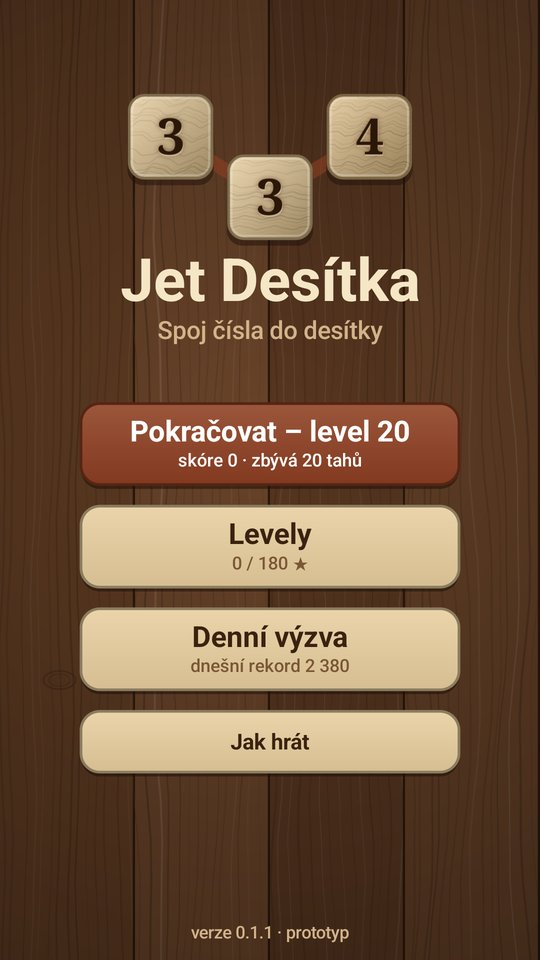
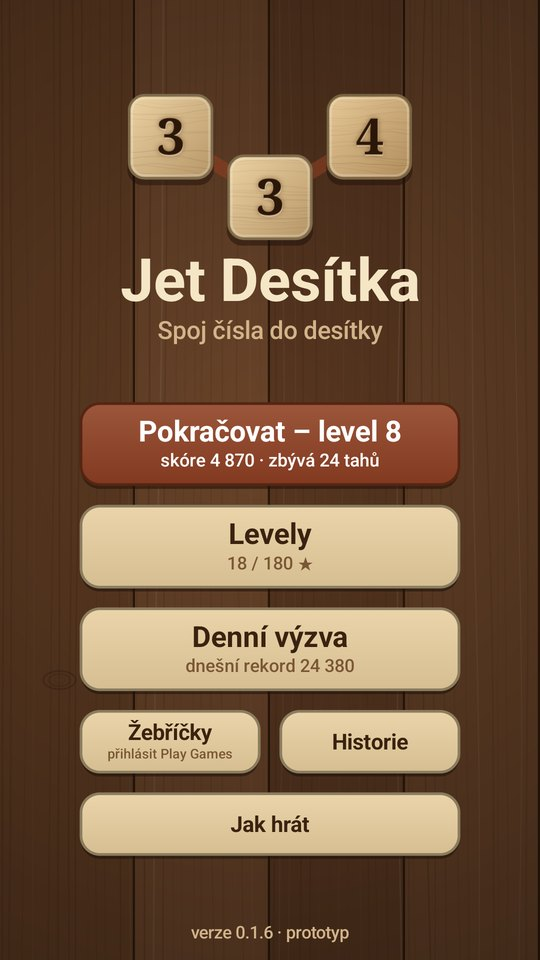
Jet Desítka: nová pravidla (postupky, dvojice, věž, mezery), historie, nové screenshoty; zásady jen žebříčky

diff --git a/jetdesitka/index.html b/jetdesitka/index.html
@@ -4,7 +4,7 @@
   <meta charset="utf-8">
   <meta name="viewport" content="width=device-width, initial-scale=1">
   <title>Jet Desítka – Rdanhel Dev</title>
-  <meta name="description" content="Jet Desítka: klidná číselná hra s dřevěnými kostkami. Spojuj čísla do desítky nebo tři a víc stejných, sbírej kaskády a hvězdy v 60 levelech a porovnej se s ostatními v denní výzvě. Android, bez reklam.">
+  <meta name="description" content="Jet Desítka: klidná číselná hra s dřevěnými kostkami. Spojuj čísla do desítky, tři a víc stejných nebo postupku, plánuj dopředu ve věži čísel, sbírej hvězdy v 60 levelech a porovnej se s ostatními v denní výzvě. Android, bez reklam.">
   <link rel="icon" href="../assets/img/favicon.svg" type="image/svg+xml">
   <link rel="stylesheet" href="../assets/css/style.css">
 </head>
@@ -55,7 +55,7 @@
       <img src="../assets/img/jetdesitka/ikona.png" width="112" height="112" alt="Ikona Jet Desítka" style="border-radius:24px;margin-bottom:18px">
       <span class="eyebrow">Projekt</span>
       <h1>Jet Desítka</h1>
-      <p class="lead">Klidná číselná hra s dřevěnými kostkami a vypálenými čísly. Prstem spojuješ sousední čísla jako v osmisměrce, buď do součtu 10, nebo tři a víc stejných. Žádný časovač ani spěch, jen přemýšlení. Čím delší cesta, tím víc bodů, a když se po pádu sejdou stejná čísla, rozjede se kaskáda.</p>
+      <p class="lead">Klidná číselná hra s dřevěnými kostkami a vypálenými čísly. Prstem spojuješ sousední čísla jako v osmisměrce: do součtu 10, tři a víc stejných, nebo postupku 1-2-3. Všechna čísla čekají předem ve věži, takže si můžeš dopředu naplánovat, co spadne. Žádný časovač ani spěch, jen přemýšlení.</p>
       <div class="badges">
         <span class="badge">Android</span>
         <span class="badge">Čeština</span>
@@ -80,12 +80,24 @@
           <p>Táhni prstem přes sousední čísla do všech osmi směrů, i šikmo. Když dají dohromady přesně 10, zmizí. Za dvojici je 20 bodů, za čtyři čísla 160 a za šest čísel 960. Delší cesta se vyplatí.</p>
         </div>
         <div class="card">
-          <h3>Stejná čísla</h3>
-          <p>Tři a víc stejných čísel vedle sebe smíš spojit bez ohledu na součet. Čím víc jich je, tím větší bonus: 3 stejná dají 90 bodů, 4 stejná 240, 5 stejných 600 a 6 stejných 1 440.</p>
+          <h3>Stejná čísla a dvojice</h3>
+          <p>Tři a víc stejných čísel smíš spojit bez ohledu na součet. Kterékoli z nich můžeš nahradit dvěma čísly za sebou se stejným součtem: 7, 7, 2+5, 7 jsou čtyři sedmičky. 3 kusy dají 90 bodů, 4 kusy 240, 5 kusů 600, 6 kusů 1 440.</p>
+        </div>
+        <div class="card">
+          <h3>Postupka</h3>
+          <p>Aspoň tři čísla za sebou, každé o jedna vyšší nebo nižší: 1-2-3-4 nebo 6-5-4. Boduje se stejně jako stejná čísla, celá řada 1 až 9 dá přes 17 000 bodů.</p>
+        </div>
+        <div class="card">
+          <h3>Věž čísel</h3>
+          <p>Všechna čísla hry jsou připravená předem ve věži a nová nepřibývají. Lištou vpravo se posuneš nahoru, uvidíš, co tě čeká, a hrát můžeš kdekoliv, třeba si nahoře připravit kombinaci, která pak spadne dolů.</p>
+        </div>
+        <div class="card">
+          <h3>Mezera jako žolík</h3>
+          <p>Jak věž ubývá, nahoře vznikají prázdná místa. Cesta přes ně může projít, klidně přes celé prázdné sloupce: 2 úplně vlevo a 8 úplně vpravo je pořád desítka. Mezera sama nic nepřičítá.</p>
         </div>
         <div class="card">
           <h3>Kaskády</h3>
-          <p>Zbylá čísla spadnou dolů a shora přijdou nová. Když se pádem sejdou aspoň tři stejná vedle sebe, zmizí sama s násobitelem ×2, ×3, ×4… Jeden dobrý tah tak může přinést tisíce bodů.</p>
+          <p>Zbylá čísla spadnou dolů. Když se pádem sejdou aspoň tři stejná vedle sebe, zmizí sama s násobitelem ×2, ×3, ×4… Jeden dobrý tah tak může přinést tisíce bodů.</p>
         </div>
         <div class="card">
           <h3>Zámky a ×2</h3>
@@ -93,7 +105,7 @@
         </div>
         <div class="card">
           <h3>Bez spěchu</h3>
-          <p>Nehraje se na čas, ale na tahy. Hra se uloží po každém tahu, takže ji můžeš kdykoli zavřít a příště pokračovat od posledního tahu. Když nevíš kudy kam, nápověda ukáže jednu dobrou cestu.</p>
+          <p>Nehraje se na čas, ale na tahy. Hra se uloží po každém tahu, takže ji můžeš kdykoli zavřít a příště pokračovat. V historii najdeš všechny dohrané hry a jejich skóre.</p>
         </div>
         <div class="card">
           <h3>Dřevěný vzhled</h3>
@@ -104,22 +116,23 @@
 
     <section id="rezimy">
       <h2>Levely a denní výzva</h2>
-      <p class="section-lead">Postupně těžší levely pro sebe a jedna společná deska denně pro porovnání s ostatními.</p>
+      <p class="section-lead">Postupně těžší levely pro sebe a jedna společná věž denně pro porovnání s ostatními.</p>
       <div class="split">
         <div>
           <ul class="check">
             <li><b>60 levelů</b>: omezený počet tahů, cílové skóre a od čtvrtého levelu zámky. Za vyšší skóre jsou až tři hvězdy a splněný level odemkne další.</li>
-            <li><b>Denní výzva</b>: každý den nová deska, pro všechny hráče stejná, 30 tahů. Počítá se jen skóre, takže porovnání je férové.</li>
+            <li><b>Denní výzva</b>: každý den nová věž, pro všechny hráče stejná, 60 tahů. Počítá se jen skóre a všichni mají stejná čísla, takže porovnání je férové.</li>
+            <li><b>Historie</b>: přehled dohraných her s datem, skóre a hvězdami.</li>
             <li><b>Nápověda</b>: třikrát za hru ukáže jednu dobrou cestu.</li>
           </ul>
         </div>
         <div class="card">
           <h3>Hra v číslech</h3>
           <ul>
-            <li>Mřížka <b>7 × 9 kostek</b></li>
+            <li>Věž <b>7 sloupců, 27–34 řad</b></li>
             <li>Levely <b>60, až 3 hvězdy</b></li>
-            <li>Tahů v levelu <b>15–20</b></li>
-            <li>Denní výzva <b>30 tahů</b></li>
+            <li>Tahů v levelu <b>30–40</b></li>
+            <li>Denní výzva <b>60 tahů, věž 48 řad</b></li>
             <li>Kaskády <b>×2, ×3, ×4…</b></li>
             <li>Reklamy a nákupy <b>žádné</b></li>
           </ul>
@@ -129,36 +142,33 @@
 
     <section id="play-games">
       <h2>Google Play Games</h2>
-      <p class="section-lead">Aby bylo s kým se porovnávat, napojí se hra na herní služby Googlu. Přihlásíš se svým profilem Play Games, žádný další účet ani registrace nejsou potřeba.</p>
-      <div class="grid cols-3">
+      <p class="section-lead">Aby bylo s kým se porovnávat, je hra napojená na herní služby Googlu. Přihlásíš se svým profilem Play Games, žádný další účet ani registrace nejsou potřeba.</p>
+      <div class="grid cols-2">
         <div class="card">
-          <span class="tag">Připravuje se</span>
-          <h3>Žebříčky</h3>
-          <p>Denní žebříček pro denní výzvu a celkový žebříček za levely. Uvidíš, jak si vedeš proti přátelům i ostatním hráčům.</p>
+          <span class="tag">Hotovo</span>
+          <h3>Čtyři žebříčky</h3>
+          <p>Denní výzva, hvězdy celkem, nejlepší tah a součet skóre levelů. Uvidíš, jak si vedeš proti přátelům i ostatním hráčům.</p>
         </div>
         <div class="card">
-          <span class="tag">Připravuje se</span>
-          <h3>Uložení v cloudu</h3>
-          <p>Postup v levelech a rozehraná hra se uloží do tvého účtu Google. Na novém telefonu pak můžeš pokračovat v rozehrané hře.</p>
-        </div>
-        <div class="card">
-          <span class="tag">Připravuje se</span>
-          <h3>Úspěchy</h3>
-          <p>Odměny za první kaskádu ×3, šest stejných čísel v jedné cestě, týden denních výzev v řadě a další.</p>
+          <span class="tag">Možná později</span>
+          <h3>Úspěchy a uložení v cloudu</h3>
+          <p>Odměny za velké kaskády nebo dlouhé postupky a pokračování v rozehrané hře na jiném telefonu. Zatím se postup ukládá jen v telefonu.</p>
         </div>
       </div>
       <div class="note" style="margin-top:18px">
-        Přihlášení do Play Games bude dobrovolné. Hra půjde hrát i bez něj, jen bez žebříčků a cloudového uložení. Profil, žebříčky i uložené hry spravuje Google. <a href="../zasady-ochrany-osobnich-udaju/jet-desitka/">Podrobnosti v zásadách ochrany osobních údajů</a>.
+        Přihlášení do Play Games je dobrovolné. Hra jde hrát i bez něj, jen bez žebříčků. Profil a žebříčky spravuje Google. <a href="../zasady-ochrany-osobnich-udaju/jet-desitka/">Podrobnosti v zásadách ochrany osobních údajů</a>.
       </div>
     </section>
 
     <section id="screenshoty">
       <h2>Screenshoty</h2>
       <div class="shots">
-        <figure><img src="../assets/img/jetdesitka/uvod.jpg" width="540" height="960" loading="lazy" alt="Úvodní obrazovka s dřevěnými kostkami"><figcaption>Úvodní obrazovka</figcaption></figure>
-        <figure><img src="../assets/img/jetdesitka/hra.jpg" width="540" height="960" loading="lazy" alt="Hrací deska s dřevěnými kostkami, zámky a kostkou ×2"><figcaption>Hrací deska se zámky</figcaption></figure>
-        <figure><img src="../assets/img/jetdesitka/stejna-cisla.jpg" width="540" height="960" loading="lazy" alt="Tažení cesty přes tři sedmičky za 90 bodů"><figcaption>Tři stejná čísla</figcaption></figure>
-        <figure><img src="../assets/img/jetdesitka/levely.jpg" width="540" height="960" loading="lazy" alt="Výběr levelu s hvězdami"><figcaption>Výběr levelu</figcaption></figure>
+        <figure><img src="../assets/img/jetdesitka/uvod.jpg" width="540" height="960" loading="lazy" alt="Úvodní obrazovka s dřevěnými kostkami a tlačítkem Historie"><figcaption>Úvodní obrazovka</figcaption></figure>
+        <figure><img src="../assets/img/jetdesitka/vez.jpg" width="540" height="960" loading="lazy" alt="Věž čísel, cesta 2 + 3 + 1 + 4 = 10 za 160 bodů"><figcaption>Desítka ve věži</figcaption></figure>
+        <figure><img src="../assets/img/jetdesitka/dvojice.jpg" width="540" height="960" loading="lazy" alt="Cesta 7, 7, 2+5, 7 – čtyři sedmičky za 240 bodů"><figcaption>Sedmičky i s dvojicí</figcaption></figure>
+        <figure><img src="../assets/img/jetdesitka/mezera.jpg" width="540" height="960" loading="lazy" alt="Skoro vyčerpaná věž, postupka 4-5-6-7 vede přes dvě prázdná místa"><figcaption>Postupka přes mezery</figcaption></figure>
+        <figure><img src="../assets/img/jetdesitka/historie.jpg" width="540" height="960" loading="lazy" alt="Historie dohraných her se skóre a hvězdami"><figcaption>Historie her</figcaption></figure>
+        <figure><img src="../assets/img/jetdesitka/vysledek.jpg" width="540" height="960" loading="lazy" alt="Splněný level se třemi hvězdami"><figcaption>Splněný level</figcaption></figure>
       </div>
     </section>
 

diff --git a/zasady-ochrany-osobnich-udaju/jet-desitka/index.html b/zasady-ochrany-osobnich-udaju/jet-desitka/index.html
@@ -4,7 +4,7 @@
   <meta charset="utf-8">
   <meta name="viewport" content="width=device-width, initial-scale=1">
   <title>Zásady ochrany osobních údajů – Jet Desítka</title>
-  <meta name="description" content="Zásady ochrany osobních údajů aplikace Jet Desítka. Bez reklam, analytiky a vlastního serveru. Žebříčky, úspěchy a uložení v cloudu přes Google Play Games Services, které spravuje Google.">
+  <meta name="description" content="Zásady ochrany osobních údajů aplikace Jet Desítka. Bez reklam, analytiky a vlastního serveru. Žebříčky přes Google Play Games Services, které spravuje Google.">
   <link rel="icon" href="../../assets/img/favicon.svg" type="image/svg+xml">
   <link rel="stylesheet" href="../../assets/css/style.css">
 </head>
@@ -65,7 +65,7 @@
 
       <h3>Shrnutí</h3>
       <p>Vývojář <strong>neprovozuje žádný server a neshromažďuje o vás žádné osobní údaje</strong>. Aplikace neobsahuje reklamy, nákupy v aplikaci ani analytické nástroje a nemá vlastní uživatelské účty. Postup ve hře se ukládá ve vašem zařízení.</p>
-      <p>Pro žebříčky, úspěchy a uložení hry v cloudu aplikace využívá službu <strong>Google Play Games Services</strong> (herní služby Google Play). Přihlášení do ní je dobrovolné a data v ní zpracovává společnost Google podle svých zásad (viz níže).</p>
+      <p>Pro žebříčky aplikace využívá službu <strong>Google Play Games Services</strong> (herní služby Google Play). Přihlášení do ní je dobrovolné a data v ní zpracovává společnost Google podle svých zásad (viz níže).</p>
       <p>Tyto zásady se týkají mobilní hry Jet Desítka pro Android.</p>
 
       <h3>Jaká data aplikace ukládá (lokálně ve vašem zařízení)</h3>
@@ -73,6 +73,7 @@
         <li><strong>Postup v levelech</strong>: odemčené levely a získané hvězdy.</li>
         <li><strong>Rekordy denních výzev</strong>: nejvyšší skóre pro jednotlivé dny.</li>
         <li><strong>Rozehraná hra</strong>: stav desky, skóre a zbývající tahy, abyste mohli pokračovat.</li>
+        <li><strong>Historie her</strong>: datum a čas dohraných her, level nebo denní výzva, skóre a hvězdy (posledních 200 her).</li>
       </ul>
       <p>Data jsou v interním úložišti aplikace, kam ostatní aplikace nemají přístup, a neobsahují žádné údaje o vás ani o vašem zařízení.</p>
 
@@ -80,13 +81,11 @@
       <p>Pokud se v aplikaci přihlásíte ke službě Google Play Games (může proběhnout i automaticky, máte-li v telefonu Play Games zapnuté), zpracovává společnost Google tyto údaje:</p>
       <ul>
         <li><strong>Herní profil</strong>: vaše herní ID, přezdívka (jméno hráče) a profilový obrázek ze služby Play Games.</li>
-        <li><strong>Žebříčky</strong>: vaše skóre (denní výzva, celkové skóre za levely) spolu s herním profilem. Podle nastavení viditelnosti ve vašem profilu Play Games je mohou vidět i ostatní hráči.</li>
-        <li><strong>Úspěchy</strong>: které herní úspěchy jste získali.</li>
-        <li><strong>Uložené hry v cloudu</strong>: postup v levelech a rozehraná hra uložené ve vašem účtu Google, abyste mohli pokračovat na jiném zařízení.</li>
+        <li><strong>Žebříčky</strong>: vaše skóre ve čtyřech žebříčcích (denní výzva, hvězdy celkem, nejlepší tah, součet skóre levelů) spolu s herním profilem. Podle nastavení viditelnosti ve vašem profilu Play Games je mohou vidět i ostatní hráči.</li>
       </ul>
+      <p>Úspěchy (achievementy) ani ukládání her v cloudu aplikace nepoužívá. Pokud by je v budoucnu přidala, tyto zásady se předem upraví.</p>
       <p>Tyto údaje spravuje Google jako samostatný správce podle <a href="https://policies.google.com/privacy">Zásad ochrany soukromí Google</a> a <a href="https://play.google.com/about/play-terms/">Smluvních podmínek služby Google Play</a>. Vývojář nemá přístup k vašemu e-mailu, kontaktům ani jiným údajům z účtu Google. Prostřednictvím služby vidí jen to, co je v žebříčcích (přezdívku a skóre), a souhrnné statistiky v konzoli Google Play.</p>
-      <p>Bez přihlášení lze hrát všechny levely i denní výzvu. Chybí jen žebříčky, úspěchy a cloudové uložení. Viditelnost profilu, přátele i smazání herních dat spravujete v aplikaci Google Play Games nebo na <a href="https://myaccount.google.com/">myaccount.google.com</a>.</p>
-      <p class="meta">Funkce Google Play Games se do aplikace teprve přidávají. Dokud nejsou aktivní, aplikace se k internetu nepřipojuje a žádná data mimo zařízení neodesílá.</p>
+      <p>Bez přihlášení lze hrát všechny levely i denní výzvu. Chybí jen žebříčky. Viditelnost profilu, přátele i smazání herních dat spravujete v aplikaci Google Play Games nebo na <a href="https://myaccount.google.com/">myaccount.google.com</a>.</p>
 
       <h3>Oprávnění aplikace</h3>
       <p>Aplikace používá pouze <strong>přístup k internetu</strong>, a to výhradně pro komunikaci se službou Google Play Games. Nemá přístup k poloze, fotoaparátu, mikrofonu, kontaktům, souborům ani k zařízením v okolí.</p>
@@ -95,7 +94,7 @@
       <p>Aplikace neobsahuje <strong>reklamy</strong>, <strong>analytické nástroje</strong> (např. Google Analytics nebo Firebase Analytics), nástroje pro hlášení pádů ani žádná sledovací SDK třetích stran.</p>
 
       <h3>Záloha a přenos dat</h3>
-      <p><strong>Systémová záloha Androidu</strong>: aplikace má povolenou automatickou zálohu systému Android. Pokud máte v telefonu zapnuté zálohování do Googlu, může operační systém zkopírovat data aplikace (postup, rekordy a rozehranou hru) do vašeho vlastního účtu Google. Tuto zálohu spravuje Google podle svých podmínek a vývojář k ní nemá přístup. Zálohování lze v nastavení telefonu vypnout.</p>
+      <p><strong>Systémová záloha Androidu</strong>: aplikace má povolenou automatickou zálohu systému Android. Pokud máte v telefonu zapnuté zálohování do Googlu, může operační systém zkopírovat data aplikace (postup, rekordy, historii a rozehranou hru) do vašeho vlastního účtu Google. Tuto zálohu spravuje Google podle svých podmínek a vývojář k ní nemá přístup. Zálohování lze v nastavení telefonu vypnout.</p>
 
       <h3>Sdílení s třetími stranami</h3>
       <p>Vývojář žádná vaše data neshromažďuje, a proto je ani nesdílí. Údaje ve službě Google Play Games zpracovává přímo Google, jak je popsáno výše.</p>
@@ -112,7 +111,7 @@
 
       <h3>Doba uchování a výmaz</h3>
       <p>Lokální data zůstávají v zařízení, dokud je nesmažete. Smažete je v nastavení telefonu (Aplikace → Jet Desítka → Úložiště → Vymazat data) nebo odinstalováním aplikace.</p>
-      <p>Data ve službě Google Play Games (žebříčky, úspěchy, uložené hry) smažete v aplikaci Google Play Games nebo ve správě účtu Google. Případnou systémovou zálohu smažete ve správě zálohování svého účtu Google.</p>
+      <p>Data ve službě Google Play Games (žebříčky) smažete v aplikaci Google Play Games nebo ve správě účtu Google. Případnou systémovou zálohu smažete ve správě zálohování svého účtu Google.</p>
 
       <h3>Vaše práva podle GDPR</h3>
       <p>Protože vývojář žádné vaše osobní údaje nezpracovává ani k nim nemá přístup, nemůže vyřídit žádost o výpis, opravu ani výmaz na dálku. U údajů ve službě Google Play Games uplatníte práva přímo u společnosti Google. Podle nařízení GDPR máte tato práva a s dotazy se můžete obrátit na <a href="mailto:rdanhel.dev@gmail.com">rdanhel.dev@gmail.com</a>:</p>

diff --git a/index.html b/index.html
@@ -300,7 +300,7 @@
           <div class="body">
             <span class="tag">Hra · Android · ve vývoji</span>
             <h3>Jet Desítka</h3>
-            <p>Klidná číselná hra s dřevěnými kostkami. Spojuj čísla do desítky nebo tři a víc stejných, rozjížděj kaskády a porovnej se s ostatními v denní výzvě přes Google Play Games – bez reklam a bez časovače.</p>
+            <p>Klidná číselná hra s dřevěnými kostkami. Spojuj čísla do desítky, stejná čísla nebo postupky, plánuj dopředu ve věži čísel a porovnej se s ostatními v denní výzvě přes Google Play Games – bez reklam a bez časovače.</p>
             <span class="more">Více o projektu →</span>
           </div>
         </a>

diff --git a/zasady-ochrany-osobnich-udaju/index.html b/zasady-ochrany-osobnich-udaju/index.html
@@ -135,7 +135,7 @@
           <div class="body">
             <span class="tag">Android · účinnost od 1. 11. 2026</span>
             <h3>Jet Desítka</h3>
-            <p>Bez reklam a bez vlastního serveru. Žebříčky a uložení v cloudu přes Google Play Games.</p>
+            <p>Bez reklam a bez vlastního serveru. Žebříčky přes Google Play Games.</p>
             <span class="more">Číst zásady →</span>
           </div>
         </a>
